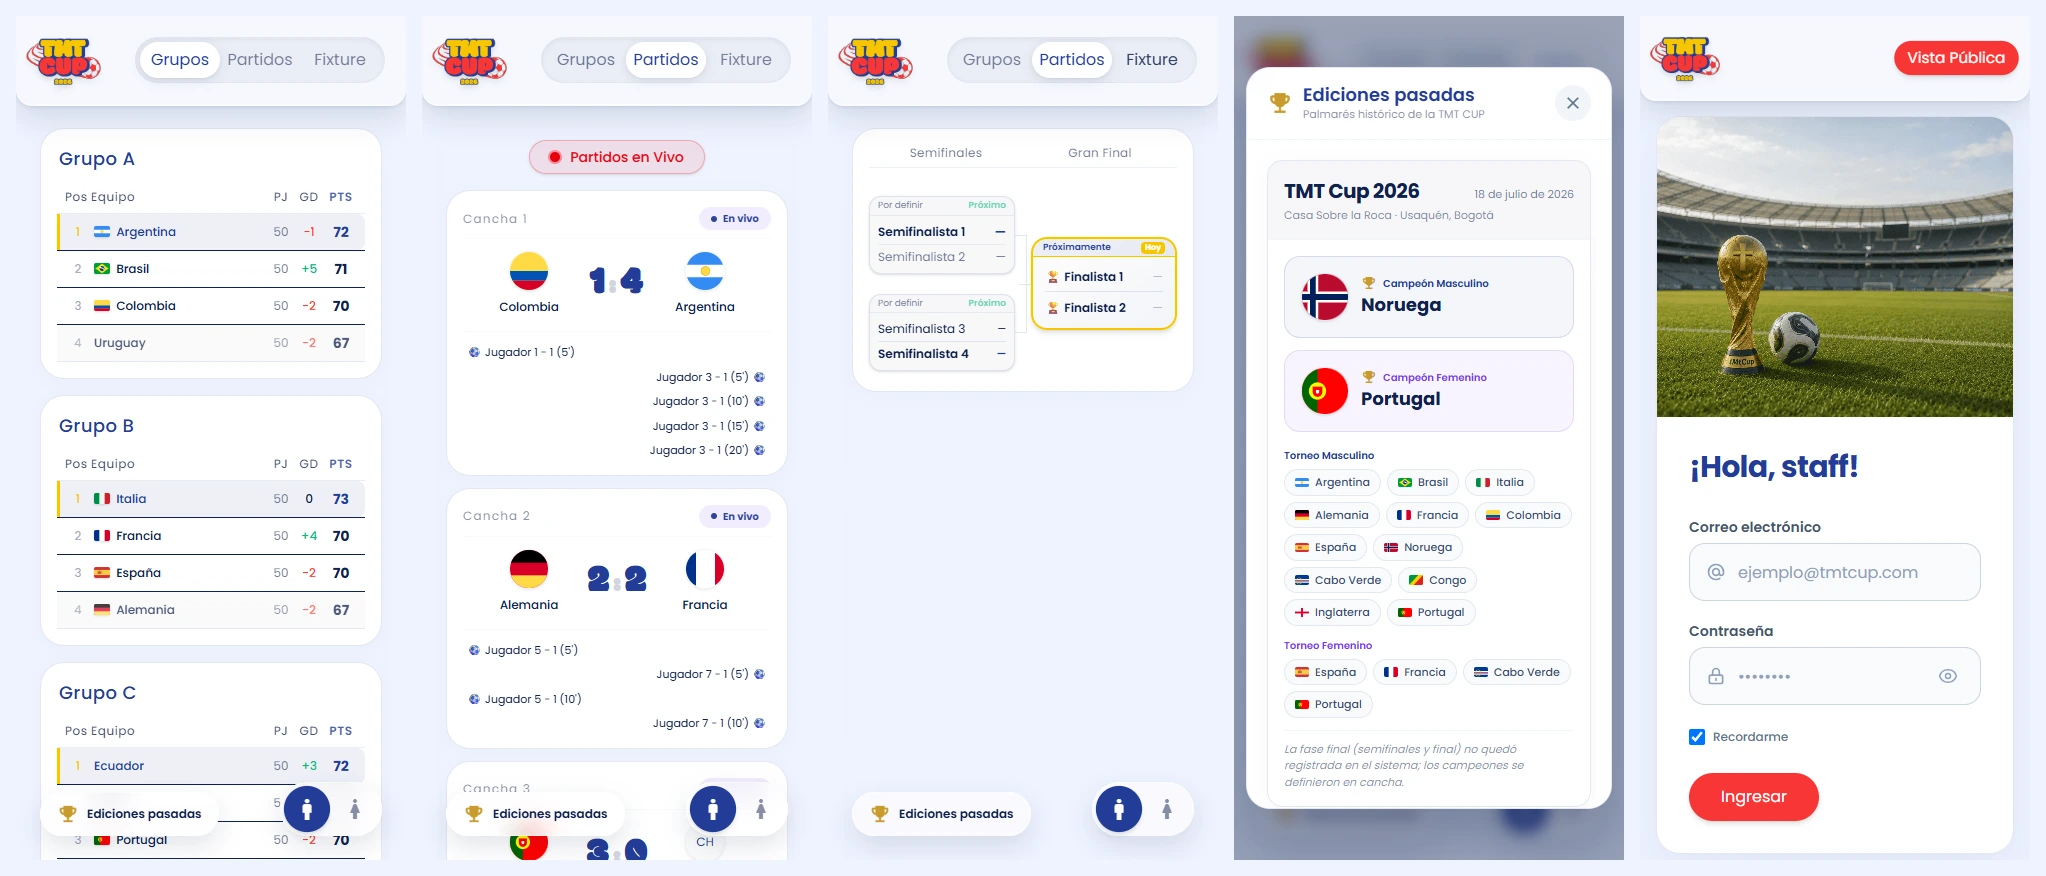
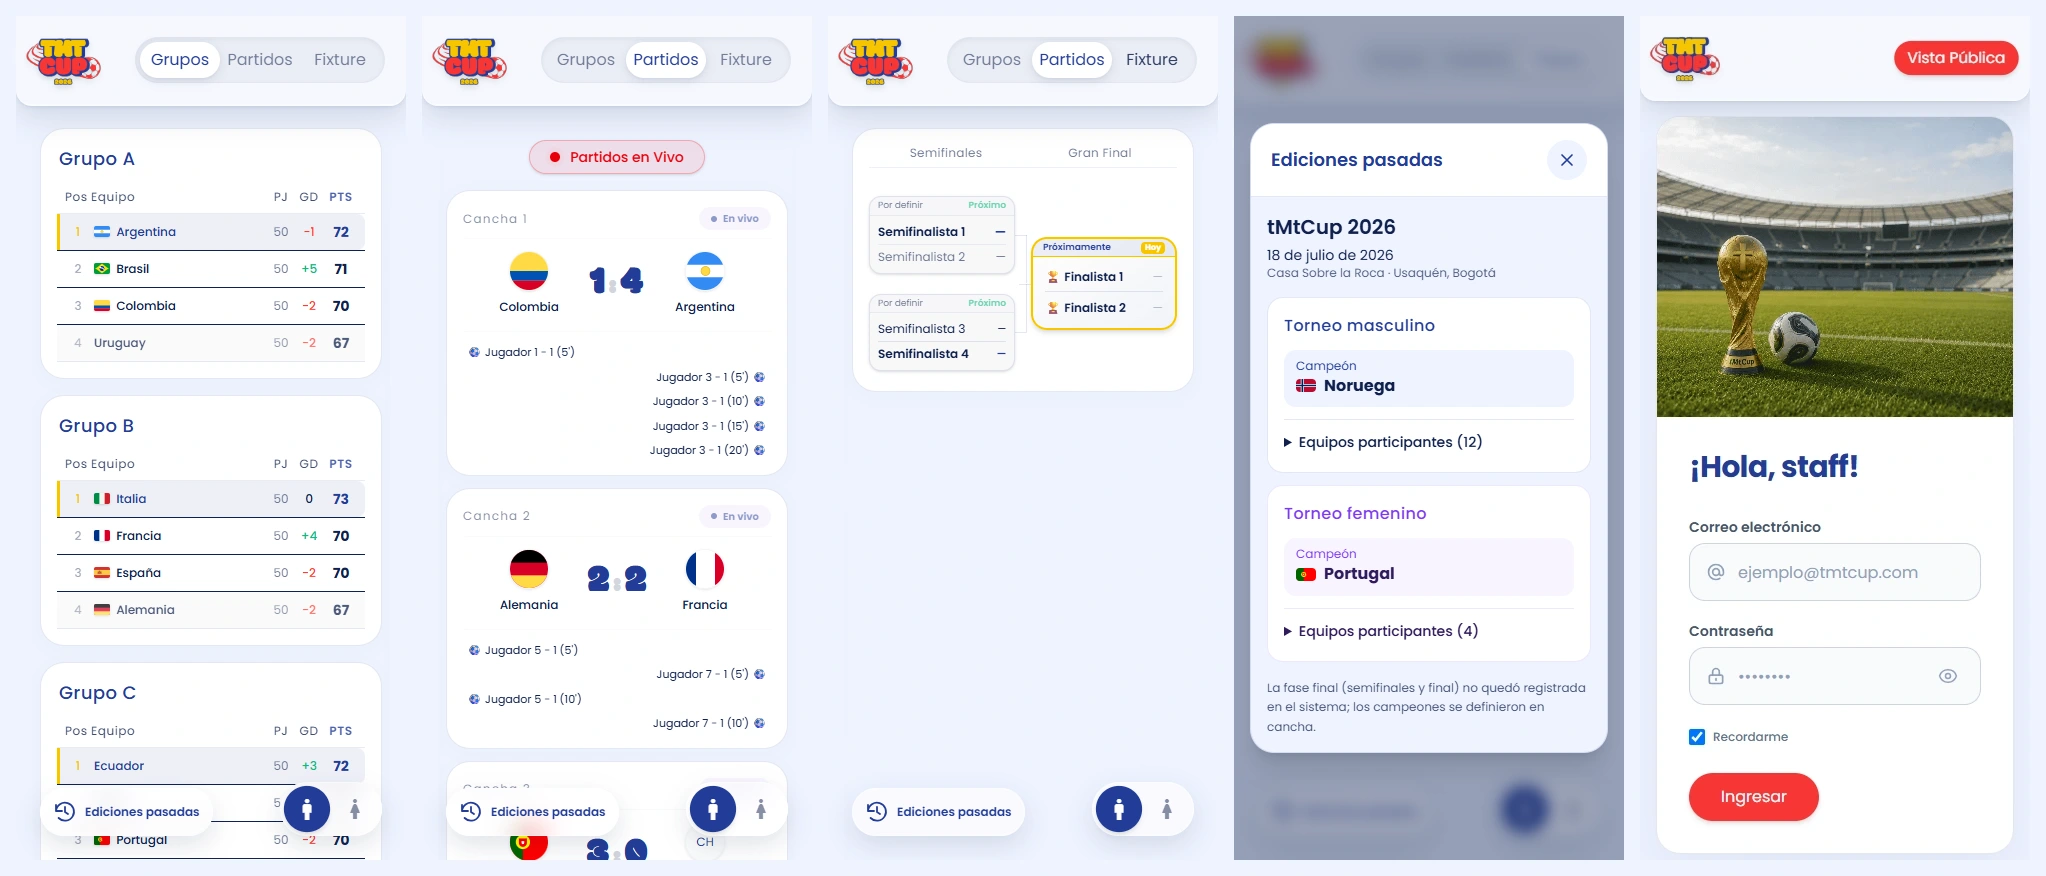
Rediseña el historial de tMtCup con los estilos del torneo

diff --git a/app/components/EdicionesPasadas.tsx b/app/components/EdicionesPasadas.tsx
@@ -1,156 +1,83 @@
 "use client";
 
-import { useState } from "react";
+import Image from "next/image";
+import { useRef } from "react";
 import { PAST_EDITIONS } from "@/lib/editions";
 import { teamFlagSrc } from "@/lib/flags";
 
-// Botón flotante "Ediciones pasadas" (esquina inferior izquierda) + modal
-// con el palmarés histórico. Los datos vienen del archivo estático
-// lib/editions.ts, así que se conservan aunque se reinicie la base de datos.
-export default function EdicionesPasadas() {
-  const [open, setOpen] = useState(false);
-
-  const flag = (name: string) => teamFlagSrc(name);
-
+function TeamName({ name }: { name: string }) {
+  const flag = teamFlagSrc(name);
   return (
-    <>
-      {/* Botón flotante (abajo-izquierda, espejo del selector de género) */}
-      <button
-        type="button"
-        onClick={() => setOpen(true)}
-        className="fixed bottom-6 left-6 z-50 flex items-center gap-2 px-4 h-11 rounded-full bg-white/70 backdrop-blur-md border border-white/40 shadow-[0_10px_25px_rgba(16,32,76,0.12)] text-[#10204c] hover:text-[#233c97] transition-all active:scale-95 font-poppins"
-        aria-label="Ver ediciones pasadas"
-      >
-        <span className="material-symbols-outlined !text-[22px] text-[#c99a2e]">emoji_events</span>
-        <span className="hidden min-[375px]:inline text-xs font-semibold whitespace-nowrap">Ediciones pasadas</span>
-      </button>
-
-      {/* Modal */}
-      {open && (
-        <div
-          className="fixed inset-0 z-[120] bg-[#10204c]/40 backdrop-blur-sm flex items-center justify-center p-3 sm:p-4 font-poppins"
-          onClick={() => setOpen(false)}
-        >
-          <div
-            className="bg-white rounded-3xl w-full max-w-2xl max-h-[88vh] overflow-y-auto border border-[color:var(--border,#e5e9f2)] shadow-[0_20px_50px_rgba(16,32,76,0.25)]"
-            onClick={(e) => e.stopPropagation()}
-            style={{ scrollbarWidth: "none" }}
-          >
-            {/* Cabecera */}
-            <div className="sticky top-0 bg-white/90 backdrop-blur-md px-5 sm:px-7 py-4 border-b border-slate-100 flex items-center justify-between z-10">
-              <div className="flex items-center gap-2.5">
-                <span className="material-symbols-outlined !text-[26px] text-[#c99a2e]">emoji_events</span>
-                <div>
-                  <h2 className="text-lg sm:text-xl font-semibold text-[#233c97] leading-tight">Ediciones pasadas</h2>
-                  <p className="text-[11px] text-[#10204c]/50">Palmarés histórico de la TMT CUP</p>
-                </div>
-              </div>
-              <button
-                type="button"
-                onClick={() => setOpen(false)}
-                className="w-9 h-9 rounded-full bg-slate-100 hover:bg-slate-200 text-slate-500 flex items-center justify-center transition-colors shrink-0"
-                aria-label="Cerrar"
-              >
-                <span className="material-symbols-outlined !text-[20px]">close</span>
-              </button>
-            </div>
-
-            {/* Ediciones */}
-            <div className="p-5 sm:p-7 space-y-6">
-              {PAST_EDITIONS.map((ed) => (
-                <div key={ed.year} className="rounded-2xl border border-slate-200 overflow-hidden shadow-[0_4px_20px_rgba(16,32,76,0.04)]">
-                  {/* Franja del año */}
-                  <div className="px-4 sm:px-5 py-4 bg-[#10204c]/[0.04] border-b border-slate-100 text-[#10204c]">
-                    <div className="flex items-baseline justify-between gap-3">
-                      <span className="text-xl sm:text-2xl font-extrabold tracking-tight">TMT Cup {ed.year}</span>
-                      <span className="text-[11px] text-[#10204c]/55 text-right">{ed.fecha}</span>
-                    </div>
-                    {ed.sede && <p className="text-[11px] text-[#10204c]/50 mt-0.5">{ed.sede}</p>}
-                  </div>
-
-                  {/* Campeones */}
-                  <div className="p-4 sm:p-5 grid grid-cols-1 sm:grid-cols-2 gap-3">
-                    {ed.champions.map((c) => {
-                      const isFem = c.category === "Femenino";
-                      return (
-                        <div
-                          key={c.category}
-                          className="rounded-2xl p-4 flex items-center gap-3 border"
-                          style={{
-                            backgroundColor: isFem ? "rgba(124,58,237,0.05)" : "rgba(35,60,151,0.05)",
-                            borderColor: isFem ? "rgba(124,58,237,0.15)" : "rgba(35,60,151,0.15)",
-                          }}
-                        >
-                          <div className="w-12 h-12 rounded-full bg-white border border-slate-200 shadow-sm flex items-center justify-center overflow-hidden shrink-0">
-                            {flag(c.team) ? (
-                              // eslint-disable-next-line @next/next/no-img-element
-                              <img src={flag(c.team)!} alt={c.team} className="w-full h-full object-cover" />
-                            ) : (
-                              <span className="text-sm font-black text-[#10204c]/50">{c.team[0]}</span>
-                            )}
-                          </div>
-                          <div className="min-w-0">
-                            <div className="flex items-center gap-1.5">
-                              <span className="material-symbols-outlined !text-[16px] text-[#c99a2e]">emoji_events</span>
-                              <span className="text-[10px] font-semibold" style={{ color: isFem ? "#7c3aed" : "#233c97" }}>
-                                Campeón {c.category}
-                              </span>
-                            </div>
-                            <p className="text-lg font-extrabold text-[#10204c] truncate">{c.team}</p>
-                          </div>
-                        </div>
-                      );
-                    })}
-                  </div>
-
-                  {/* Equipos participantes */}
-                  <div className="px-4 sm:px-5 pb-4 sm:pb-5 space-y-3">
-                    <TeamChips titulo="Torneo Masculino" teams={ed.teamsMasculino} color="#233c97" flag={flag} />
-                    <TeamChips titulo="Torneo Femenino" teams={ed.teamsFemenino} color="#7c3aed" flag={flag} />
-
-                    {ed.nota && (
-                      <p className="text-[11px] text-[#10204c]/50 italic border-t border-slate-100 mt-2 pt-2.5">
-                        {ed.nota}
-                      </p>
-                    )}
-                  </div>
-                </div>
-              ))}
-            </div>
-          </div>
-        </div>
-      )}
-    </>
+    <span className="inline-flex items-center gap-2">
+      {flag && <Image src={flag} width={20} height={15} alt="" className="w-5 rounded-sm" />}
+      {name}
+    </span>
   );
 }
 
-function TeamChips({
-  titulo,
-  teams,
-  color,
-  flag,
-}: {
-  titulo: string;
-  teams: string[];
-  color: string;
-  flag: (name: string) => string | null;
-}) {
+export default function EdicionesPasadas() {
+  const dialog = useRef<HTMLDialogElement>(null);
+
   return (
-    <div>
-      <span className="block text-[10px] font-semibold mb-1.5" style={{ color }}>
-        {titulo}
-      </span>
-      <div className="flex flex-wrap gap-1.5">
-        {teams.map((t) => (
-          <span key={t} className="inline-flex items-center gap-1.5 px-2.5 py-1 rounded-full bg-slate-50 border border-slate-200 text-[11px] font-medium text-[#10204c]/80">
-            {flag(t) && (
-              // eslint-disable-next-line @next/next/no-img-element
-              <img src={flag(t)!} alt="" className="h-[0.85em] w-auto rounded-[2px]" />
-            )}
-            {t}
-          </span>
-        ))}
-      </div>
-    </div>
+    <>
+      <button type="button" aria-haspopup="dialog" aria-label="Ver ediciones pasadas"
+        onClick={() => dialog.current?.showModal()}
+        className="fixed bottom-6 left-6 z-50 inline-flex h-12 items-center gap-2 rounded-full border border-white/40 bg-white/70 px-3 text-[#233c97] shadow-[0_10px_25px_rgba(16,32,76,0.12)] backdrop-blur-md transition hover:bg-white active:scale-95">
+        <svg aria-hidden="true" viewBox="0 0 24 24" fill="none" stroke="currentColor" strokeWidth="1.8" strokeLinecap="round" strokeLinejoin="round" className="size-6">
+          <path d="M3 11a9 9 0 1 1 2.6 7M3 5v6h6M12 7v5l3 2" />
+        </svg>
+        <span className="hidden text-xs font-semibold min-[375px]:inline">Ediciones pasadas</span>
+      </button>
+
+      <dialog ref={dialog} aria-labelledby="history-title"
+        onClick={(event) => { if (event.target === event.currentTarget) dialog.current?.close(); }}
+        className="fixed inset-0 m-auto w-[calc(100%-2rem)] max-w-2xl max-h-[85dvh] overflow-hidden rounded-3xl border border-[var(--border)] bg-[var(--background)] text-[var(--foreground)] shadow-xl backdrop:bg-[#10204c]/40 backdrop:backdrop-blur-sm">
+        <div className="flex max-h-[85dvh] flex-col">
+          <header className="flex items-center justify-between gap-3 border-b border-[var(--border)] bg-white px-5 py-4 sm:px-6">
+            <h2 id="history-title" className="text-lg font-semibold text-[var(--primary)]">Ediciones pasadas</h2>
+            <button type="button" aria-label="Cerrar historial" onClick={() => dialog.current?.close()}
+              className="grid size-10 place-items-center rounded-full bg-[var(--background)] text-[var(--primary)] hover:bg-white">
+              <svg aria-hidden="true" viewBox="0 0 24 24" fill="none" stroke="currentColor" strokeWidth="2" strokeLinecap="round" className="size-5"><path d="m6 6 12 12M18 6 6 18" /></svg>
+            </button>
+          </header>
+          <div className="space-y-6 overflow-y-auto overscroll-contain p-4 sm:p-6">
+            {PAST_EDITIONS.map((edition) => (
+              <article key={edition.year} className="space-y-4">
+                <header>
+                  <h3 className="text-xl font-semibold">tMtCup {edition.year}</h3>
+                  <p className="mt-1 text-sm">{edition.fecha}</p>
+                  {edition.sede && <p className="text-xs opacity-70">{edition.sede}</p>}
+                </header>
+                <div className="grid gap-3 sm:grid-cols-2">
+                  {(["Masculino", "Femenino"] as const).map((category) => {
+                    const teams = category === "Masculino" ? edition.teamsMasculino : edition.teamsFemenino;
+                    const winners = edition.champions.filter((champion) => champion.category === category);
+                    return (
+                      <section key={category} data-theme={category.toLowerCase()}
+                        className="rounded-2xl border border-[var(--border)] bg-[var(--card-strong)] p-4 text-[var(--foreground)]">
+                        <h4 className="text-base font-medium tracking-wide text-[var(--primary)]">Torneo {category.toLowerCase()}</h4>
+                        {winners.map(({ team }) => (
+                          <div key={team} className="mt-3 rounded-xl bg-[var(--background)] px-3 py-2">
+                            <p className="text-xs text-[var(--primary)]">Campeón</p>
+                            <strong className="text-base"><TeamName name={team} /></strong>
+                          </div>
+                        ))}
+                        <details className="mt-3 border-t border-[var(--border)] pt-2">
+                          <summary className="cursor-pointer py-1 text-sm font-medium">Equipos participantes ({teams.length})</summary>
+                          <ul className="mt-2 grid gap-2 text-sm">
+                            {teams.map((team) => <li key={team}><TeamName name={team} /></li>)}
+                          </ul>
+                        </details>
+                      </section>
+                    );
+                  })}
+                </div>
+                {edition.nota && <p className="text-xs leading-relaxed opacity-75">{edition.nota}</p>}
+              </article>
+            ))}
+          </div>
+        </div>
+      </dialog>
+    </>
   );
 }
